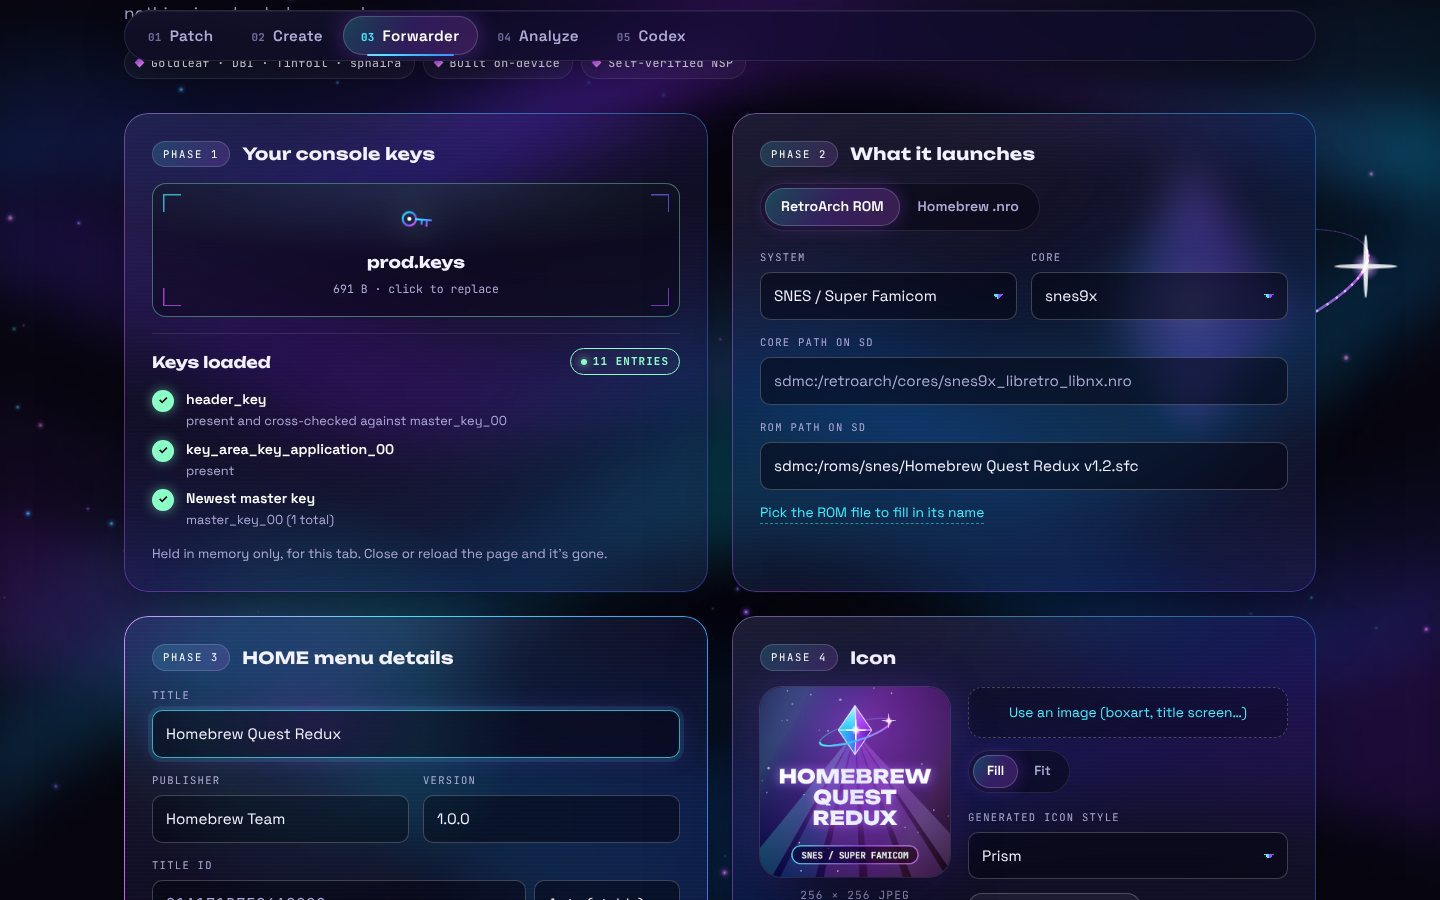
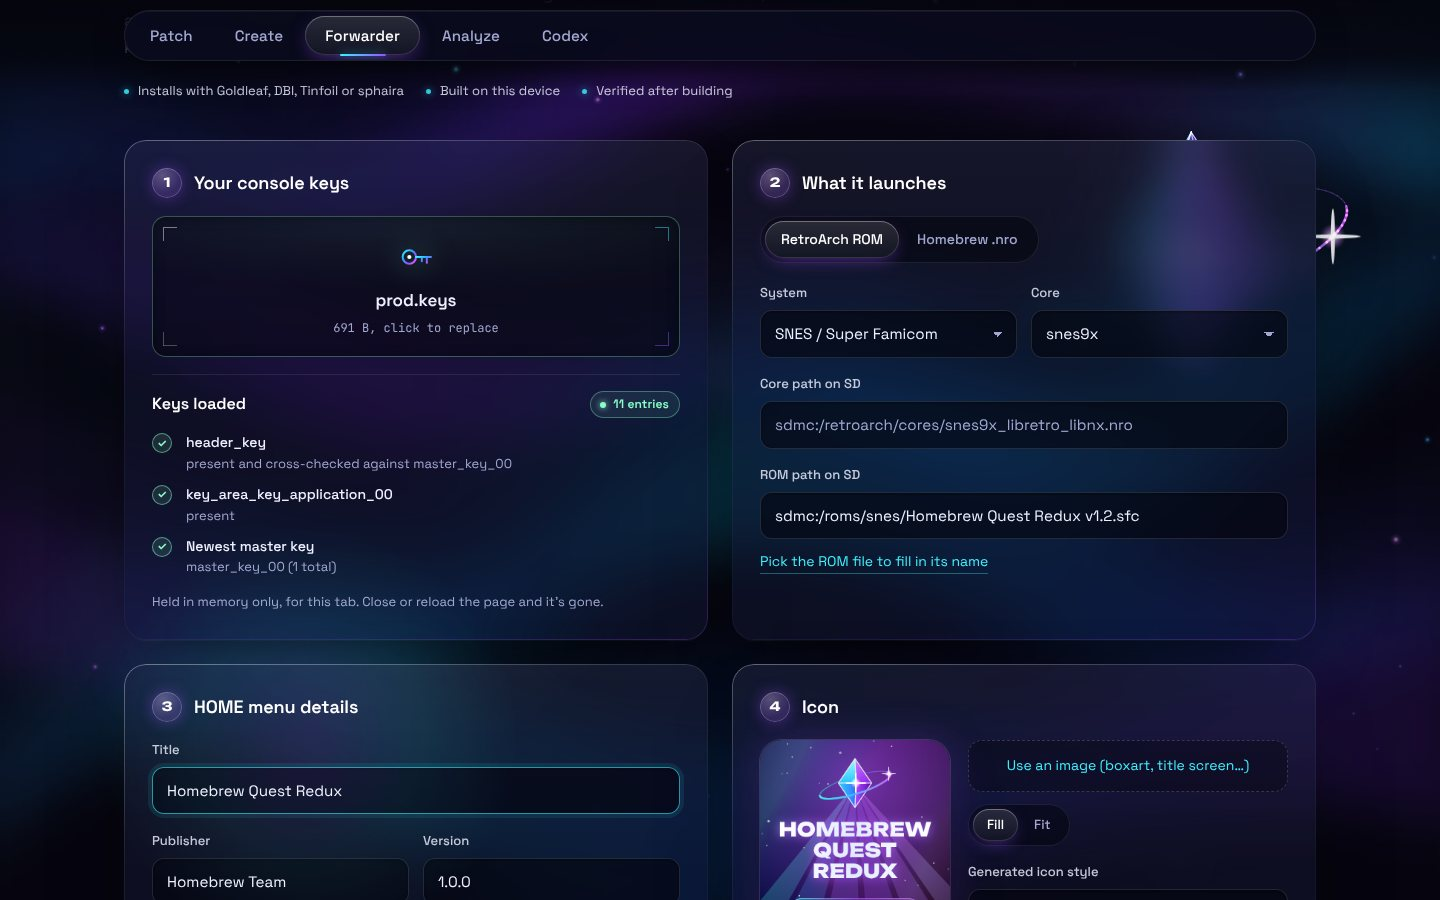
Update docs and screenshots for the polished interface
- README stations table without numbers; screenshots retaken
- Guides use the new panel names and numbered forwarder steps
- design.md: chrome headline, surface levels, chrome button, a new
  Restraint section, and the extra tokens
- CHANGELOG

Claude-Session: https://claude.ai/code/session_013h4UAKn46A7Cq5dj7wSGcr

Changed region(s): [[0.0625, 0.1244, 0.9688, 1.0], [0.0625, 0.0, 0.6875, 0.2489], [0.2812, 0.2178, 0.3125, 0.2489]]

diff --git a/docs/design.md b/docs/design.md
@@ -16,7 +16,9 @@ Defined on `:root` in `css/style.css`.
 | `--text`, `--dim`, `--faint` | `#f3f1ff`, `#aeaad6`, `#716d9f` | Body, secondary, tertiary text |
 | `--c1` … `--c6` | cyan `#3cf2ff`, azure `#2aa8ff`, indigo `#6f6bff`, violet `#9a4dff`, magenta `#d35bff`, orchid `#f08cff` | The spectrum, sampled from the logo: every gradient, glow and highlight is drawn from these six |
 | `--chrome` | white → ice blue → lilac | The silver of the logo's AETHER wordmark |
-| `--spectrum`, `--spectrum-conic` | gradients built from `--c1…--c6` | Foil buttons, card edges, wordmark |
+| `--spectrum`, `--spectrum-conic` | gradients built from `--c1…--c6` | Boot bar and rings, the LAB rule lines |
+| `--chrome-edge` | white at the top left → violet at the bottom right | The machined hairline around input panels, as if lit by the crystal |
+| `--t-xs` … `--t-xl` | 13 / 14 / 16 / 18 / 20 px | Type scale for everything below the page headline |
 | `--ok`, `--bad`, `--warn` | mint, rose, peach | Check results, always paired with an icon or word, never colour alone. They're deliberately outside the brand spectrum so a status never looks like decoration |
 | `--display`, `--ui`, `--mono` | Unbounded, Space Grotesk, JetBrains Mono | Headings/wordmark, interface, data (hashes, offsets, IDs) |
 | `--r-lg`, `--r-md`, `--r-sm` | 24 / 14 / 10 px | Card, control, chip radii |
@@ -56,8 +58,9 @@ From back to front:
 
 ## Signature effects
 
-- **Glass cards.** These use `backdrop-filter: blur(22px) saturate(160%)` over the canvases. `.card::before` draws the spectrum edge as a masked ring (`mask-composite: exclude`, and `-webkit-mask-composite: xor` for WebKit). `.card::after` is the moving sheen.
-- **Spinning edges.** `@property --angle` registers an animatable angle, which `--spectrum-conic` uses, so a border can rotate without JavaScript.
+- **Chrome headline.** The station headline is the one loud voice: Unbounded 600 filled with `--chrome`, the same silver as the logo's wordmark, never a single coloured word.
+- **Three surface levels.** Input panels (`.card`) are glass with `backdrop-filter: blur(22px)` and a machined edge drawn by `.card::before` as a masked ring (`mask-composite: exclude`, `-webkit-mask-composite: xor`). Settings (`.card--quiet`) sit back: no blur, a faint edge. Results (`.result`) are lit: a status-coloured edge, a soft glow and a status icon. Don't make every box the same.
+- **Chrome button.** The primary action is polished chrome (`.btn--primary`) lit from above, with the crystal's light beneath it and a single pass of light on hover.
 - **Tilt and highlight.** Drop zones and the icon tile lean toward the pointer through `--tx`/`--ty`; the icon's foil follows `--fx`/`--fy`; each card's highlight follows `--mx`/`--my`. `fx.js` writes these once per `requestAnimationFrame`, and only for fine pointers (mouse, trackpad).
 - **Scan.** `VF.fx.scan(card, true)` sweeps a laser line across a card while a job runs.
 - **Burst.** `VF.fx.burst(el)` throws prism shards from a button when a job succeeds.
@@ -91,17 +94,22 @@ The effects take about 1–2 ms of script per frame on a mid-range laptop. They 
 
 The layout is mobile-first, with breakpoints at 520, 640 and 880 px. Two-column grids (`.grid--2`, `.opts`, `.row2`, `.iconbay`) only split at those widths. Test every change at about 360 px (small phone), 768 px (tablet) and 1440 px (desktop), in portrait and landscape.
 
-## Naming
+## Restraint
 
-The theme vocabulary is used consistently across the interface:
+What keeps it premium is mostly what isn't there:
+
+- **One moving object.** The crystal is the only thing that animates on its own (plus the one-time boot). Everything else moves only in answer to the user: a tab opening, a file dragged over, a job running (scan), a job finishing (burst).
+- **Plain labels.** Sentence case in Space Grotesk. No tracked all-caps eyebrows, no jargon pills. Every panel says what goes in it, with a one-line hint underneath.
+- **Numbers mean order.** Only the forwarder's steps are numbered, because their order matters. The tabs aren't.
+- **Mono is for data.** JetBrains Mono only for hashes, offsets, paths, extensions and title IDs.
+- **No middle-dot strings.** Lists of things are written as sentences or laid out as lists.
+
+## Naming
 
 | UI word | Meaning |
 | --- | --- |
-| Specimen α | The ROM you load |
-| Reagent β | The patch file |
-| Sample α / β | Original and modified ROM in the Create station |
+| Station | One of the tabs (Patch, Create, Forwarder, Analyze, Codex) |
 | Variant | A shape of the same ROM that auto-fix may try (headered, byte-swapped…) |
-| Station | One of the five tabs |
 
 ## Changing the look
 

diff --git a/docs/forwarders.md b/docs/forwarders.md
@@ -1,4 +1,4 @@
-# NSP forwarders (Station 03)
+# NSP forwarders
 
 A **forwarder** is a tiny installable title that shows up on the Switch HOME menu with its own name and icon. When you launch it, it immediately chain-loads something on your SD card:
 
@@ -21,9 +21,9 @@ Your keys are read into memory in the browser tab and nothing else: not uploaded
 
 ## Building one
 
-**Phase 1 — Keys.** Load `prod.keys`.
+**Step 1 — Your console keys.** Load `prod.keys`.
 
-**Phase 2 — What it launches.**
+**Step 2 — What it launches.**
 
 *RetroArch ROM*
 - **System** and **Core** fill in the core path for you (`sdmc:/retroarch/cores/snes9x_libretro_libnx.nro` and so on). Choose **Custom path…** if your core has a different file name — check `/retroarch/cores/` with a file manager.
@@ -35,11 +35,11 @@ Your keys are read into memory in the browser tab and nothing else: not uploaded
 
 Paths can be typed as `sdmc:/…`, `/…`, or even pasted from a PC (`E:\roms\…`) — they're normalised. Quotes aren't allowed (they'd break the argument string).
 
-**Phase 3 — HOME menu details.** Title, publisher and version as they'll appear on HOME. Leave **Ask for a user profile at launch** off for RetroArch.
+**Step 3 — HOME menu details.** Title, publisher and version as they'll appear on HOME. Leave **Ask for a user profile at launch** off for RetroArch.
 
-**Phase 4 — Icon.** Use a generated icon (Prism, Hologram or Aurora styles, with the system as a badge) or your own image. Images are cropped to fill or fitted, and exported as a 256 × 256 baseline JPEG under 128 KB — larger icons show as "?" on HOME.
+**Step 4 — Icon.** Use a generated icon (Prism, Hologram or Aurora styles, with the system as a badge) or your own image. Images are cropped to fill or fitted, and exported as a 256 × 256 baseline JPEG under 128 KB — larger icons show as "?" on HOME.
 
-**Phase 5 — Crystallize.** The summary shows exactly what will run. **Forge NSP** builds it in a second or two and then re-reads its own output (see below).
+**Step 5 — Forge the NSP.** The summary shows exactly what will run. **Forge NSP** builds it in a second or two and then re-reads its own output (see below).
 
 ## Title IDs
 

diff --git a/README.md b/README.md
@@ -33,11 +33,11 @@ Aether Lab is five "stations" on one static page:
 
 | Station | What it does |
 | --- | --- |
-| **01 · Patch** | Applies **IPS, IPS32, EBP, BPS, UPS, xdelta (VCDIFF), PPF v1–3 and APS (N64 & GBA)**. Verifies the source ROM, then quietly fixes the usual reasons patches fail — SNES copier headers, iNES headers, N64 byte order, SMD interleave — and can repair header checksums afterwards. |
-| **02 · Create** | Builds **BPS, UPS or IPS** patches from an original and a modified ROM. Every patch is test-applied before you can download it. |
-| **03 · Forwarder** | Forges **installable NSP forwarders** for a homebrewed Switch: a HOME-menu icon that launches a ROM straight into its RetroArch core, or any homebrew `.nro`. Install with Goldleaf, DBI, Tinfoil or sphaira. |
-| **04 · Analyze** | Identifies 20+ systems from their headers, shows CRC32 / MD5 / SHA-1, checks header checksums, strips or adds headers and converts N64 byte order. |
-| **05 · Codex** | A built-in troubleshooting guide. |
+| **Patch** | Applies **IPS, IPS32, EBP, BPS, UPS, xdelta (VCDIFF), PPF v1–3 and APS (N64 & GBA)**. Verifies the source ROM, then quietly fixes the usual reasons patches fail — SNES copier headers, iNES headers, N64 byte order, SMD interleave — and can repair header checksums afterwards. |
+| **Create** | Builds **BPS, UPS or IPS** patches from an original and a modified ROM. Every patch is test-applied before you can download it. |
+| **Forwarder** | Forges **installable NSP forwarders** for a homebrewed Switch: a HOME-menu icon that launches a ROM straight into its RetroArch core, or any homebrew `.nro`. Install with Goldleaf, DBI, Tinfoil or sphaira. |
+| **Analyze** | Identifies 20+ systems from their headers, shows CRC32 / MD5 / SHA-1, checks header checksums, strips or adds headers and converts N64 byte order. |
+| **Codex** | A built-in troubleshooting guide. |
 
 <table>
   <tr>

diff --git a/docs/patching.md b/docs/patching.md
@@ -1,7 +1,7 @@
-# Patching (Station 01)
+# Patching
 
-1. **Sample α — ROM / disc image.** Drop or browse to the clean ROM. The lab identifies the system from its header, shows its internal details and computes CRC32, MD5 and SHA-1.
-2. **Reagent β — Patch.** Drop the patch. The format is read from the file's first bytes (never the extension) and its details are shown. For checksummed formats you see straight away whether your ROM is the right one.
+1. **ROM or disc image.** Drop or browse to the clean ROM. The lab identifies the system from its header, shows its internal details and computes CRC32, MD5 and SHA-1.
+2. **Patch file.** Drop the patch. The format is read from the file's first bytes (never the extension) and its details are shown. For checksummed formats you see straight away whether your ROM is the right one.
 3. **Process settings.** The defaults are right for almost everything.
 4. **Apply patch**, check the results list, then **Download**.
 
@@ -57,7 +57,7 @@ Repairing changes the output's own CRC32, so it will no longer match the "target
 
 ## Checking against a readme
 
-Hack readmes usually list the checksum of the ROM they need. Open **Compare with a checksum from the hack's readme** under Sample α and paste a CRC32, MD5 or SHA-1 — the lab tells you if your dump matches.
+Hack readmes usually list the checksum of the ROM they need. Open **Compare with a checksum from the hack's readme** under the ROM and paste a CRC32, MD5 or SHA-1 — the lab tells you if your dump matches.
 
 ## Troubleshooting
 

diff --git a/CHANGELOG.md b/CHANGELOG.md
@@ -11,6 +11,21 @@ Notable changes to Aether Lab are listed here. The format follows [Keep a Change
 - `.nojekyll`, so GitHub Pages can serve the full edition straight from `main`.
 - Deployment guides for both editions, including switching an existing Hostinger site to the patcher edition.
 
+### Changed (design)
+
+- **Premium polish: chrome and light.**
+  - Station headlines are set whole in the logo's chrome.
+  - Input panels get a machined chrome edge lit like the crystal, settings sit back as a quieter surface, and results are lit by their status, with an icon.
+  - The primary button is polished chrome.
+- **Plainer, calmer interface.**
+  - Labels are sentence case in the interface font.
+  - Panels say what goes in them, with a one-line hint, in place of jargon tags (Sample α, Reagent β, Parameters).
+  - The tabs lose their numbers; the forwarder keeps numbered steps because its order matters.
+  - Middle-dot strings are rewritten as sentences.
+- Ambient loops (flowing gradients, spinning edges, floating icons, the pinging dot, the hover laser) are gone. The crystal is the one thing that moves on its own.
+- A scrim appears behind the tab bar once it sticks, so content doesn't show around it.
+- Data tables have hairline rows, and check icons are outlined.
+
 ### Fixed
 
 - Boot screen: the logo showed a black box behind it and sat off-centre inside the spinning rings. It's now cut out onto a transparent background and centred, with a soft CSS glow.

diff --git a/docs/architecture.md b/docs/architecture.md
@@ -34,7 +34,7 @@ VF.patch.register({
   ext: 'bps',
   blurb: 'Shown in the Create station',      // only for formats with create()
   detect(u8) { return true/false },          // magic bytes only — never the file name
-  inspect(u8) {                              // shown in Reagent β
+  inspect(u8) {                              // shown under "Patch file"
     return {
       rows: [['Label', 'value'], …],
       expectedSourceCrc,   // optional: lets the engine pick a ROM variant up front
@@ -56,7 +56,7 @@ Throw `VF.patch.PatchError(message, code)` for anything the user should read. Th
 1. Create `js/patch/<name>.js` implementing the contract above. Use `VF.bytes.Reader` — it throws a clear "truncated or corrupt" error instead of reading past the end.
 2. Add a `<script>` tag in `index.html` (before `js/patch/engine.js`) and the path to `CORE_SCRIPTS` in `tests/lib.js`.
 3. Add tests: a round trip if you implement `create`, and — most valuable — a fixture made by the reference tool for that format (see [testing.md](testing.md)).
-4. Add the extension to the Sample β hint text and the README format table.
+4. Add the extension to the patch drop zone's hint text and the README format table.
 
 ## Console contract
 

diff --git a/docs/creating-patches.md b/docs/creating-patches.md
@@ -1,4 +1,4 @@
-# Creating patches (Station 02)
+# Creating patches
 
 1. **Baseline** — the clean ROM players will have.
 2. **Variant** — your modified build.
@@ -27,6 +27,6 @@ It isn't as tight as Flips' suffix-array mode on worst-case inputs, but it handl
 
 ## Tips for hack authors
 
-- Put the **source CRC32** shown in the results in your readme — players can paste it into Station 01 to check their dump.
+- Put the **source CRC32** shown in the results in your readme — players can paste it into the Patch tab to check their dump.
 - State whether the base ROM is **headered or headerless** (SNES) and its **byte order** (N64). Aether Lab handles both, but other patchers may not.
 - BPS metadata is a good place for title, version and credits; it shows up when someone inspects the patch.

diff --git a/docs/getting-started.md b/docs/getting-started.md
@@ -62,7 +62,7 @@ Hostinger deploys a branch into an empty folder, so you switch by starting fresh
 1. hPanel → your site → **Git** → delete the existing repository entry.
 2. hPanel → **File Manager** → open the site's folder (`public_html` for the main domain, or the subdomain's own folder) and delete the old Aether Lab files.
 3. Back in **Git**, add the repository again with branch `patcher-site`, then click **Deploy**.
-4. Open the site and hard-refresh. The tab bar should read 01 Patch, 02 Create, 03 Analyze, 04 Codex.
+4. Open the site and hard-refresh. The tab bar should read Patch, Create, Analyze, Codex, with no Forwarder tab.
 
 ### Hostinger — Node.js web app
 

diff --git a/docs/analyze.md b/docs/analyze.md
@@ -1,4 +1,4 @@
-# Analyze (Station 04)
+# Analyze
 
 Drop any ROM or disc image to see:
 
